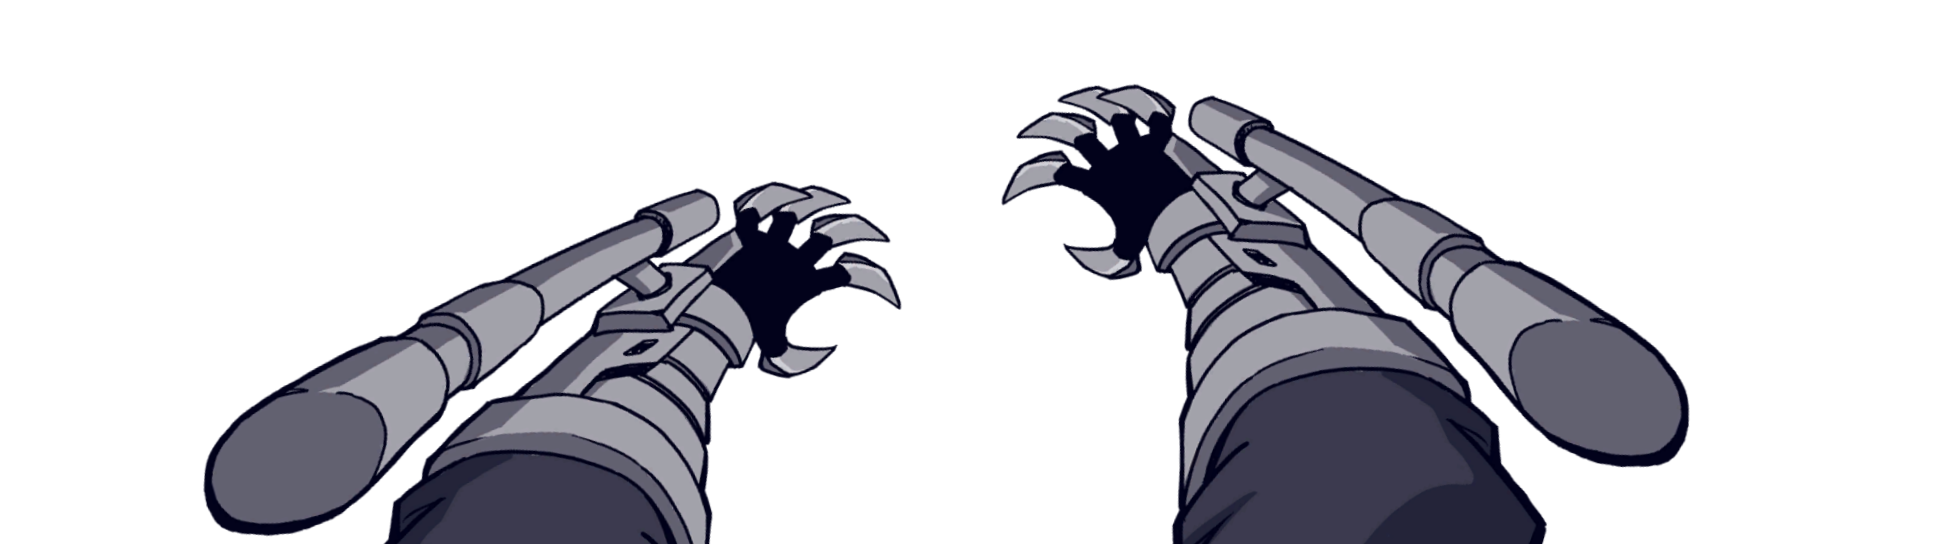
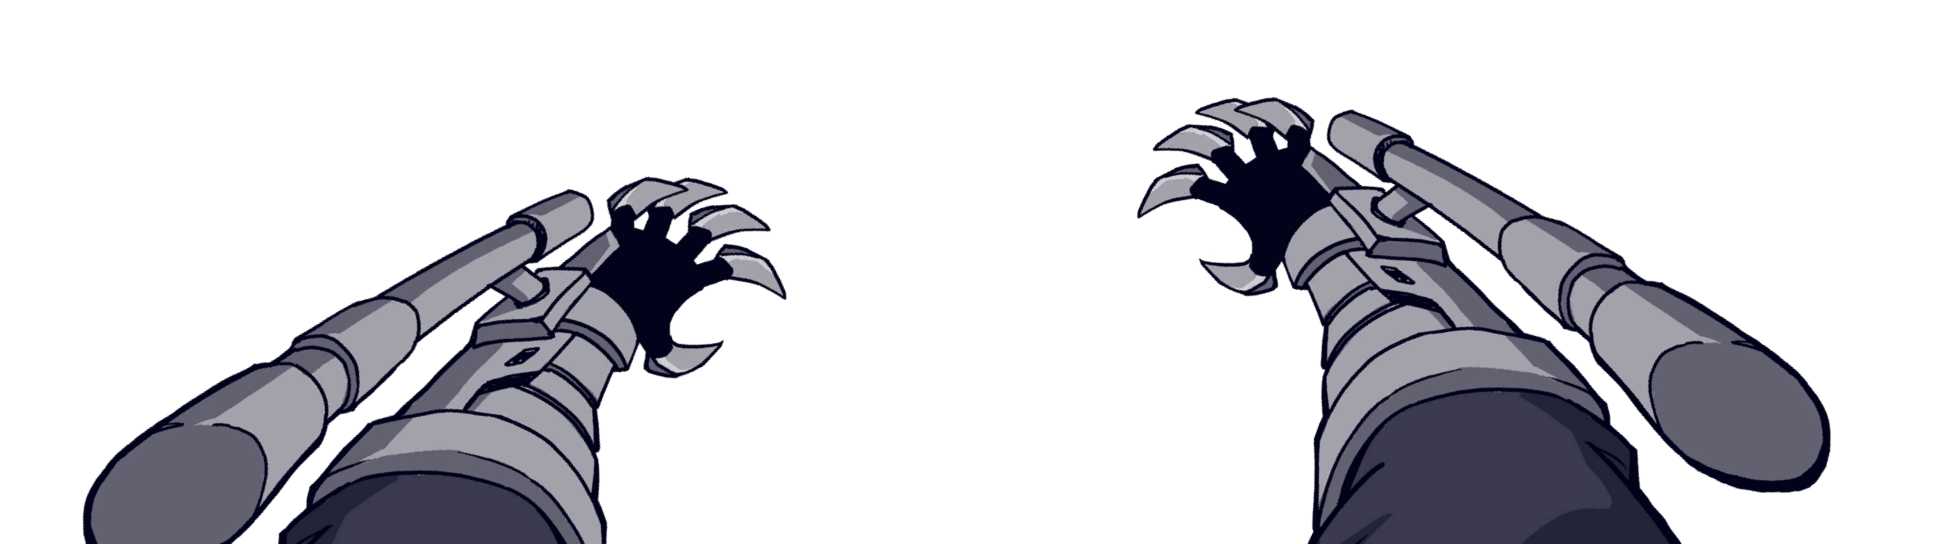
Sin : 오프닝 애니메이션 1차 구현

diff --git a/Helltaker/Helltaker_Contents/Sin_Judge.cpp b/Helltaker/Helltaker_Contents/Sin_Judge.cpp
@@ -7,6 +7,7 @@
 #include <EngineBase/EngineRandom.h>
 
 const float Sin_Judge::FadeOutDelayTime = 0.2f;
+const float Sin_Judge::IntroDelayTime = 0.8f;
 const float Sin_Judge::BindDelayTime = 1.0f;
 
 Sin_Judge::Sin_Judge()
@@ -31,37 +32,92 @@ void Sin_Judge::Tick(float _DeltaTime)
 
 void Sin_Judge::Intro_AppearStart()
 {
-	GetImageRenderer()->CreateAnimation("Jud_Intro", "Jud_Intro", { 0, 1, 2, 3 }, { 0.08f, 0.08f, 0.32f, 0.0f }, false);
+	GetImageRenderer()->CreateAnimation(
+		"Jud_Arm1", 
+		"Jud_Arm", 
+		{ 0, 1, 2, 3, 4, 5, 6, 7, 8 },
+		{ 0.015f, 0.015f, 0.015f, 0.015f, 0.015f, 0.015f, 0.03f, 0.03f, 0.03f },
+		false);
 
-	FVector WinScale = ContentsHelper::GetWindowScale();
-	FVector Scale = { 1.0f, 0.692f };
-	FVector Pos = { 0.0f, -0.0402f };
-	GetImageRenderer()->AnimationReset();
-	GetImageRenderer()->ChangeAnimation("Jud_Intro");
-	GetImageRenderer()->SetTransform({ WinScale * Pos, WinScale * Scale });
+	GetImageRenderer()->CreateAnimation("Jud_Arm2",	"Jud_Arm", 9, 14, 0.02f, false);
+	
+	GetImageRenderer()->CreateAnimation(
+		"Jud_Intro", 
+		"Jud_Intro", 
+		{ 0, 1, 2, 3 }, 
+		{ 0.08f, 0.08f, 0.32f, 0.0f }, 
+		false);
 
+	TimeCount = IntroDelayTime;
 	OrderCount = 0;
 }
 
-void Sin_Judge::Intro_Appear()
+void Sin_Judge::Intro_Appear(float _DeltaTime)
 {
 	switch (OrderCount)
 	{
 	case 0:
-		Intro_Appear1();
+		Intro_Appear1(_DeltaTime);
 		break;
 	case 1:
-		Intro_Appear2();
+		Intro_Appear2(_DeltaTime);
+		break;
+	case 2:
+		Intro_Appear3();
+		break;
+	case 3:
+		Intro_Appear4();
 		break;
 	}
 }
 
-void Sin_Judge::Intro_Appear1()
+void Sin_Judge::Intro_Appear1(float _DeltaTime)
 {
+	if (0.0f <= TimeCount)
+	{
+		TimeCount -= _DeltaTime;
+		return;
+	}
+
+	FVector WinScale = ContentsHelper::GetWindowScale();
+	FVector Scale = { 1.021f, 0.504f };
+	FVector Pos = { 0.0f, 0.022f };
+	GetImageRenderer()->AnimationReset();
+	GetImageRenderer()->ChangeAnimation("Jud_Arm1");
+	GetImageRenderer()->SetTransform({ WinScale * Pos, WinScale * Scale });
+	TimeCount = 1.0f;
 	++OrderCount;
 }
 
-void Sin_Judge::Intro_Appear2()
+void Sin_Judge::Intro_Appear2(float _DeltaTime)
+{
+	if (0.0f <= TimeCount)
+	{
+		TimeCount -= _DeltaTime;
+		return;
+	}
+
+	GetImageRenderer()->AnimationReset();
+	GetImageRenderer()->ChangeAnimation("Jud_Arm2");
+	++OrderCount;
+}
+
+void Sin_Judge::Intro_Appear3()
+{
+	if (true == GetImageRenderer()->IsCurAnimationEnd())
+	{
+		FVector WinScale = ContentsHelper::GetWindowScale();
+		FVector Scale = { 1.0f, 0.692f };
+		FVector Pos = { 0.0f, -0.0402f };
+		GetImageRenderer()->AnimationReset();
+		GetImageRenderer()->ChangeAnimation("Jud_Intro");
+		GetImageRenderer()->SetTransform({ WinScale * Pos, WinScale * Scale });
+		GetSinCutSceneChapter()->C_GetDialogue()->StateChange(ESinDialogueState::Move);
+		++OrderCount;
+	}
+}
+
+void Sin_Judge::Intro_Appear4()
 {
 	if (1 == GetImageRenderer()->GetCurAnimationFrame())
 	{
@@ -70,18 +126,12 @@ void Sin_Judge::Intro_Appear2()
 		GetImageRenderer()->SetScale(WinScale * Scale);
 		GetSinCutSceneChapter()->C_StateChange(ESinSceneState::End);
 	}
-
-	if (3 == GetImageRenderer()->GetCurAnimationFrame())
-	{
-		GetSinCutSceneChapter()->C_StateChange(ESinSceneState::End);
-	}
-
+	
 	if (true == GetImageRenderer()->IsCurAnimationEnd())
 	{
 		StateChange(ESinJudgeState::None);
 	}
 }
-
 
 void Sin_Judge::Chap3_ChainStart()
 {
@@ -537,7 +587,7 @@ void Sin_Judge::StateUpdate(float _DeltaTime)
 	switch (State)
 	{
 	case ESinJudgeState::Intro_Appear:
-		Intro_Appear();
+		Intro_Appear(_DeltaTime);
 		break;
 	case ESinJudgeState::Chap3_Chain:
 		Chap3_Chain(_DeltaTime);

diff --git a/Helltaker/Helltaker_Contents/SinOpening.cpp b/Helltaker/Helltaker_Contents/SinOpening.cpp
@@ -35,13 +35,9 @@ void SinOpening::BeginPlay()
 
 	if (false == IsLoad)
 	{
-		ContentsHelper::LoadImg("Scene\\Characters\\Jud_Arm\\L_Arm", "Jud_LArm_001.png");
-		ContentsHelper::LoadImg("Scene\\Characters\\Jud_Arm\\R_Arm", "Jud_RArm_001.png");
-
-		ContentsHelper::LoadFolder("Scene\\Characters\\Jud_Arm", "L_Arm");
-		ContentsHelper::LoadFolder("Scene\\Characters\\Jud_Arm", "R_Arm");
-
+		ContentsHelper::LoadFolder("Scene\\Characters", "Jud_Arm");
 		ContentsHelper::LoadFolder("Scene\\Characters", "Jud_Intro");
+
 		ContentsHelper::LoadSound("Sound\\Effect", "judge_intro_start.wav");
 		ContentsHelper::LoadSound("Sound\\Effect", "judgement_intro_anim.wav");
 
@@ -139,7 +135,7 @@ void SinOpening::Enter3()
 {
 	if (UEngineInput::IsDown(VK_SPACE) || UEngineInput::IsDown(VK_RETURN))
 	{
-		//UEngineSound::SoundPlay("judgement_intro_anim.wav");
+		UEngineSound::SoundPlay("judgement_intro_anim.wav");
 		C_GetDialogue()->StateChange(ESinDialogueState::Lightning);
 		C_GetBooper()->AllRenderersActiveOff();
 		C_GetJudge()->GetNameRenderer()->ActiveOff();

diff --git a/Helltaker/Helltaker_Contents/Sin_Judge.h b/Helltaker/Helltaker_Contents/Sin_Judge.h
@@ -24,9 +24,11 @@ protected:
 
 private:
 	void Intro_AppearStart();
-	void Intro_Appear();
-	void Intro_Appear1();
-	void Intro_Appear2();
+	void Intro_Appear(float _DeltaTime);
+	void Intro_Appear1(float _DeltaTime);
+	void Intro_Appear2(float _DeltaTime);
+	void Intro_Appear3();
+	void Intro_Appear4();
 
 	void Chap3_ChainStart();
 	void Chap3_Chain(float _DeltaTime);
@@ -61,6 +63,8 @@ private:
 	UImageRenderer* ArmRenderer = nullptr;
 	static const float FadeOutDelayTime;
 	float TimeCount = 0.0f;
+
+	static const float IntroDelayTime;
 
 	static const float BindDelayTime;
 	bool BindASoundPlay = false;

diff --git a/Helltaker/Helltaker_Contents/Helltaker_ContentsCore.cpp b/Helltaker/Helltaker_Contents/Helltaker_ContentsCore.cpp
@@ -76,14 +76,14 @@ void Helltaker_ContentsCore::BeginPlay()
 	CreateLevel<SinOpening>("SinOpening");
 	ChangeLevel("SinOpening");
 	
-	CreateLevel<SinChapter1>("SinChapter1");
-    ChangeLevel("SinChapter1");
+	//CreateLevel<SinChapter1>("SinChapter1");
+    //ChangeLevel("SinChapter1");
 	
 	//CreateLevel<SinChapter2>("SinChapter2");
 	//ChangeLevel("SinChapter2");
 	
-	CreateLevel<SinChapter3>("SinChapter3");
-    ChangeLevel("SinChapter3");
+	//CreateLevel<SinChapter3>("SinChapter3");
+    //ChangeLevel("SinChapter3");
 	
 	//CreateLevel<SinChapter4>("SinChapter4");
 	//ChangeLevel("SinChapter4");

diff --git a/Helltaker/Helltaker_Contents/Sin_Dialogue.cpp b/Helltaker/Helltaker_Contents/Sin_Dialogue.cpp
@@ -97,7 +97,6 @@ void Sin_Dialogue::Lightning(float _DeltaTime)
 		LitHell_Renderer->ActiveOff();
  		
 		GetSinCutSceneChapter()->C_GetJudge()->StateChange(ESinJudgeState::Intro_Appear);
- 		StateChange(ESinDialogueState::Move);
 	}
 }
 
